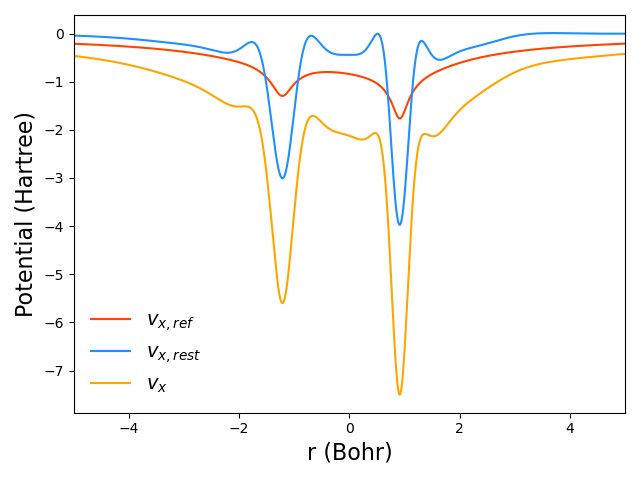
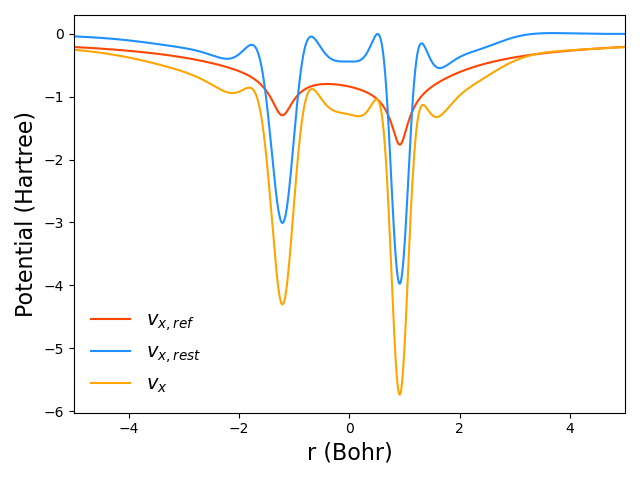
bugfix in CO plotting

diff --git a/examples/co_scexx_plot/plot_potentials.py b/examples/co_scexx_plot/plot_potentials.py
@@ -21,7 +21,7 @@ coord, vxref, vxrest, vx = load_potential('vx-final.z')
 
 plt.plot(coord, vxref, color='orangered', label='$v_{x,ref}$')
 plt.plot(coord, vxrest, color='dodgerblue', label='$v_{x,rest}$')
-plt.plot(coord, vxref+vx, color='orange', label='$v_x$')
+plt.plot(coord, vx, color='orange', label='$v_x$')
 
 plt.ylabel('Potential (Hartree)', fontsize=16)
 plt.xlabel('r (Bohr)', fontsize=16)

diff --git a/docs/scexx_uscexx.md b/docs/scexx_uscexx.md
@@ -125,7 +125,7 @@ coord, vxref, vxrest, vx = load_potential('vx-final.z')
 
 plt.plot(coord, vxref, color='orangered', label='$v_{x,ref}$')
 plt.plot(coord, vxrest, color='dodgerblue', label='$v_{x,rest}$')
-plt.plot(coord, vxref+vx, color='orange', label='$v_x$')
+plt.plot(coord, vx, color='orange', label='$v_x$')
 
 plt.ylabel('Potential (Hartree)', fontsize=16)
 plt.xlabel('r (Bohr)', fontsize=16)
